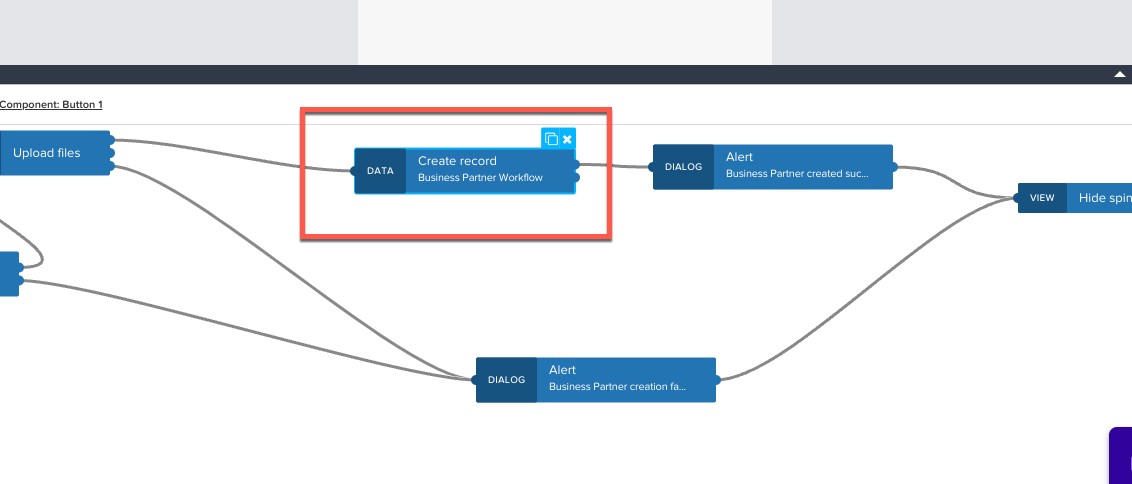
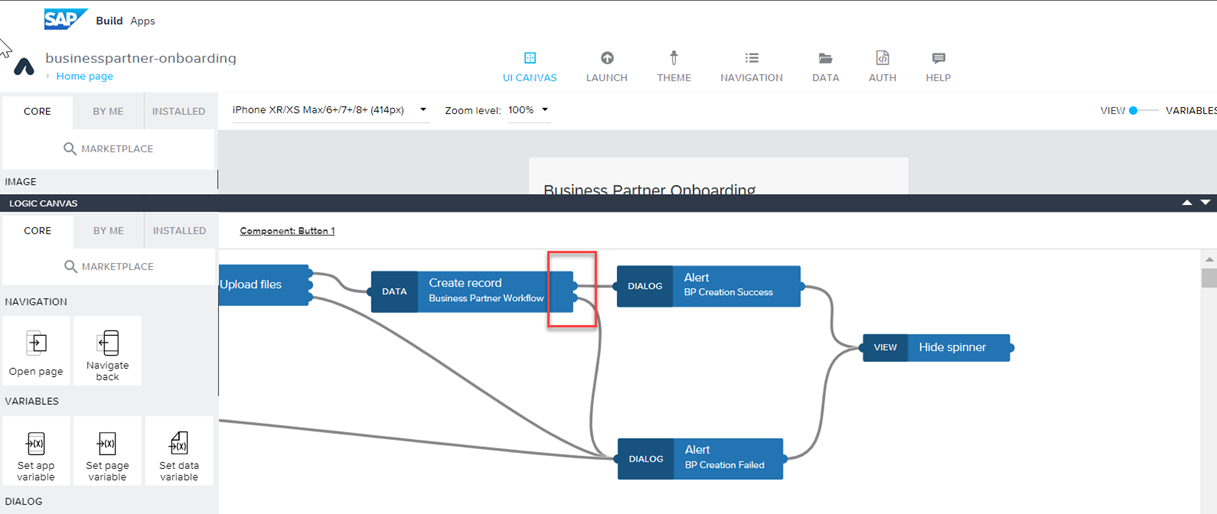
UI Updates

diff --git a/Week 2/Unit 2.5/README.md b/Week 2/Unit 2.5/README.md
@@ -9,7 +9,7 @@ You have created an AWS Free Tier account: [AWS Free Tier](https://aws.amazon.co
 ## Section 1: Create Amazon SNS Topic
 The objective of this section is to create an Amazon SNS Topic to be able to send and receive notifications. 
 
-<details>
+<!-- <details> -->
 
 1.	Log on to your [AWS Account](https://console.aws.amazon.com/)
 
@@ -37,13 +37,13 @@ The objective of this section is to create an Amazon SNS Topic to be able to sen
     
     ![Alt text](./images/aws-6.png)
 
-</details>
+<!-- </details> -->
 
 ## Section 2: Create IAM Role & Policy
 
 This section describes how to create an IAM Role and Policy that will enable our API to send notifications to the Amazon SNS Topic we recently created. 
 
-<details>
+<!-- <details> -->
 
 1.	Access the IAM Console by searching or using this [link](https://console.aws.amazon.com/iamv2)
 
@@ -140,13 +140,13 @@ Your role has now been created and it is ready to be utilized.
  
 Keep the **ARN handy** for the next section. 
 
-</details>
+<!-- </details> -->
 
 ## Section 3: Create API in Amazon API Gateway
 
 This section describes the steps required to create your API in Amazon API Gateway to send notifications to the Amazon SNS Topic you created earlier.
 
-<details>
+<!-- <details> -->
 
 1.	Access **Amazon API Gateway** by searching for the service or this [link](https://console.aws.amazon.com/apigateway/main/apis)
 
@@ -265,12 +265,12 @@ Keep this key handy to be utilized within **SAP** Build Apps**.
 
 You have now successfully created your API to store and retrieve files from Amazon S3. 
 
-</details>
+<!-- </details> -->
 
 ## Section 4: Connect SNS API to SAP Build Process Automation process
 This section describes the steps required to connect the SNS API to the SAP Build Process Automation workflow. First, the SNS API metadata is downloaded to a local folder, then a destination is created in the SAP BTP cockpit to connect with the SNS API, then an actions project is created to connect the SNS API with the SAP Build Process Automation project. In the end, this action is added to the workflow.
 
-<details>
+<!-- <details> -->
 
 1.	Open Amazon API Gateway. Open the SNS API, go to 'Stages' and click "JSON" to download the OpenAPI file. Save the Invoke URL, which will be used in the creation of the destination.
 
@@ -292,15 +292,15 @@ This section describes the steps required to connect the SNS API to the SAP Buil
     | URL.headers.x-api-key | API Key You store in the last section |  |  |  |  
     |  |  |  |  |  |  
 
-3.  Open the Destinations in SAP Build Settings. Click New Destination and select the destination that we created in the earlier step. Click Add to save.
+3.  Open the Destinations in SAP Build, Control Tower. Click New Destination and select the destination that we created in the earlier step. Click Add to save.
 
     ![Alt text](./images_btp/sbpa_4.png)
     ![Alt text](./images_btp/sbpa_5.png)
 
-4.  Open SAP Build Lobby. Click Create, select "Build an Automated Process" and select "Actions".
+4.  Open SAP Build Actions Page (In Connectors Side Panel). Click Create to create a new Actions Project to use the SNS API.
 
-    ![Alt text](./images_btp/sbpa_6.png)
-    ![Alt text](./images_btp/sbpa_7.png)
+    ![Alt text](./images_btp/SBPA_ACTION_1.png)
+    <!-- ![Alt text](./images_btp/sbpa_7.png) -->
 
 5.  Click "Upload API Specification" and select the OpenAPI document that you have downloaded in previous steps.
 
@@ -355,6 +355,8 @@ This section describes the steps required to connect the SNS API to the SAP Buil
     
     ![Alt text](./images_btp/sbpa_28.png)
 
-</details>
+<!-- </details> -->
 
 Now you have successfully integrated the Amazon SNS into SAP Build Process Automation using the SAP Build Action project. If you test the business partner onboarding application, you will get a notification after the business partner is unblocked.
+
+>**Note**: In this week exercises you have used the SAP S/4HANA mock service to integrate SAP Build. You can also try this with your SAP S/4HANA system where it is recommended to use [principal propogation](https://blogs.sap.com/2023/03/15/sap-build-apps-principal-propagation-with-s-4hana-cloud/).

diff --git a/Week 2/Unit 2.4/README.md b/Week 2/Unit 2.4/README.md
@@ -237,9 +237,9 @@ In this section, you will create an Actions Project to Read and Unblock the busi
 
     ![Alt text](./images/SBPA_50.png)
 
-51. Copy the URL and Input Schema details, which you will use to trigger from the SAP Build Application (Business Partner Onboarding app).
+51. Copy the URL and definitionID from the Example tab as shown below. You will use this configure and trigger from the SAP Build Application (Business Partner Onboarding app).
 
-    ![Alt text](./images/SBPA_51.png)
+    ![Alt text](./images/SBPA_51_1.png)
 
 <!-- </details> -->
 
@@ -307,7 +307,7 @@ You will now integrate this workflow into the Business Partner OnBoarding Applic
 
     ![Alt text](./images/SBPA_67_1.jpg)
 
-14. Drag and drop the "Create record" to the logic canvas and connect it at the end, after the Business Partner is created and the attachment is uploaded.
+14. Drag and drop the "Create record" to the logic canvas and connect it at the end, after the Business Partner is created and the attachment is uploaded. Connect this to Dialog for Success and Failure as shown below.
 
     ![Alt text](./images/SBPA_68.png)
     ![Alt text](./images/workflowcall_logic.png)

diff --git a/Week 2/Unit 2.3/README.md b/Week 2/Unit 2.3/README.md
@@ -480,6 +480,8 @@ This section describes how to consume the Amazon S3 API in the SAP Build Apps ap
 
 <details>
 
+**Please Note:** Before testing, ensure your mock server is in the **Started** state.
+
 1. Choose the tab **Launch** at the top of App Builder.
 
     ![Alt text](./images/bptest-01.png)
@@ -508,7 +510,7 @@ This section describes how to consume the Amazon S3 API in the SAP Build Apps ap
 
     ![Alt text](./images/bptest-07.png)
 
-You can also log in to AWS console, navigate to the Amazon S3 bucket and verify that the pdf file with the name as business partner ID is created.
+You can also log in to the AWS console, navigate to the Amazon S3 bucket and verify that the pdf file with the name as business partner ID is created.
 
 </details>
 
